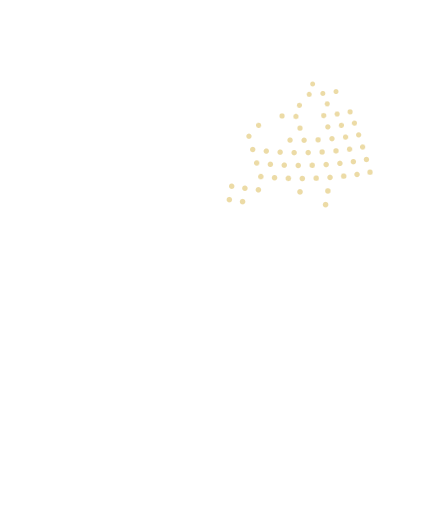
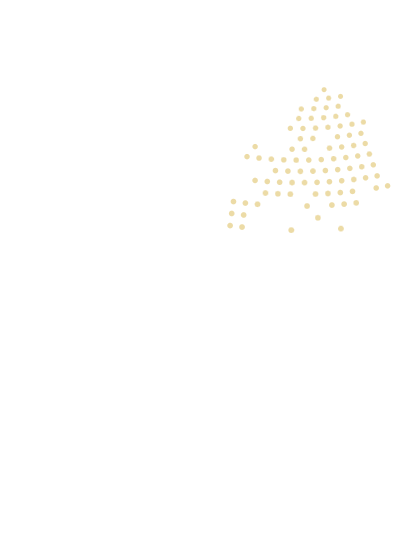
Early-Access-Mail: Kopf wie Website (echte Erde, Label, Verlaufstitel), grösserer Globus, kürzere Texte, Symbole in Hellgold

diff --git a/email/early-access.html b/email/early-access.html
@@ -7,10 +7,11 @@
 <meta name="supported-color-schemes" content="dark">
 <title>Capitalife – Early Access</title>
 <!--
-  Early-Access-Mail für die Warteliste, im dunklen Stil der Website (Schrift Inter, Gold als Akzent).
+  Early-Access-Mail für die Warteliste, im dunklen Stil der Website (Schrift Inter, Hellgold als Akzent).
   Versand über IONOS Webmail: Datei im Browser öffnen, Strg+A, Strg+C, in "Neue E-Mail" einfügen.
   Empfänger immer in BCC. Bilder liegen auf der Website (public/email/).
-  Text rechtlich geprüft (Agent, 16.10.2026), keine Rechtsberatung.
+  Text rechtlich geprüft (Agenten, 16.10.2026): keine Kapitalabfrage (nur später durch das regulierte Institut).
+  Keine Rechtsberatung.
 -->
 <link href="https://fonts.googleapis.com/css2?family=Inter:wght@300;400;500;600&display=swap" rel="stylesheet">
 </head>
@@ -22,22 +23,22 @@
 
   <!-- Kopf -->
   <tr><td style="padding:0;border-radius:18px 18px 0 0;">
-    <img src="https://capitalife-website.vercel.app/email/header.png" width="600" height="270" alt="Capitalife – Private Early Access – Einladung zur unverbindlichen Vormerkung" style="display:block;width:600px;height:270px;border:0;border-radius:18px 18px 0 0;">
+    <img src="https://capitalife-website.vercel.app/email/header.png" width="600" height="300" alt="Capitalife – Private Early Access – Einladung zur unverbindlichen Vormerkung" style="display:block;width:600px;height:300px;border:0;border-radius:18px 18px 0 0;">
   </td></tr>
 
   <!-- 1 Eintragung -->
-  <tr><td style="padding:8px 24px 0;">
+  <tr><td style="padding:10px 24px 0;">
     <table role="presentation" width="552" cellpadding="0" cellspacing="0" border="0" bgcolor="#0a0a0a" style="width:552px;background:#0a0a0a;border:1px solid #1c1c1c;border-radius:16px;">
       <tr>
-        <td valign="top" style="padding:32px 0 32px 30px;">
-          <img src="https://capitalife-website.vercel.app/email/icon-mail-dark.png" width="28" height="28" alt="" style="display:block;border:0;">
+        <td valign="middle" style="padding:34px 8px 34px 30px;">
+          <img src="https://capitalife-website.vercel.app/email/icon-mail-gold.png" width="28" height="28" alt="" style="display:block;border:0;">
           <p style="margin:16px 0 0;font-size:20px;line-height:1.3;color:#ffffff;font-weight:400;letter-spacing:-0.2px;">Danke für Ihre Eintragung</p>
-          <p style="margin:14px 0 0;font-size:14px;line-height:1.65;color:#a8a8a8;font-weight:300;">Capitalife bereitet derzeit ein Angebot vor, bei dem die Vermögensverwaltung durch ein BaFin-beaufsichtigtes Wertpapierinstitut auf individuell geführten Kundendepots erbracht werden soll. Capitalife selbst verfügt über keine Erlaubnis der BaFin und erbringt keine Finanzdienstleistungen.</p>
-          <p style="margin:12px 0 0;font-size:14px;line-height:1.65;color:#a8a8a8;font-weight:300;">Wenn Sie möchten, können Sie uns Ihr unverbindliches Interesse mitteilen und werden bei den weiteren Schritten frühzeitig informiert.</p>
+          <p style="margin:12px 0 0;font-size:14px;line-height:1.65;color:#a8a8a8;font-weight:300;">Capitalife bereitet ein Angebot vor: Vermögensverwaltung durch ein BaFin-beaufsichtigtes Wertpapierinstitut, auf Ihrem eigenen Depot.</p>
+          <p style="margin:10px 0 0;font-size:12.5px;line-height:1.6;color:#7a7a7a;font-weight:300;">Capitalife selbst hat keine BaFin-Erlaubnis und erbringt keine Finanzdienstleistungen.</p>
           <p style="margin:16px 0 0;font-size:12.5px;line-height:1.5;color:#e2ca7a;font-weight:500;">Unverbindlich · Keine Kapitalzusage · Keine Einzahlung</p>
         </td>
-        <td valign="top" align="right" width="150" style="width:150px;padding:20px 0 0 0;">
-          <img src="https://capitalife-website.vercel.app/email/globe-dark.png" width="150" height="177" alt="" style="display:block;width:150px;height:177px;border:0;">
+        <td valign="middle" align="right" width="200" style="width:200px;padding:0;">
+          <img src="https://capitalife-website.vercel.app/email/globe-dark.png" width="200" height="280" alt="" style="display:block;width:200px;height:280px;border:0;border-radius:0 16px 16px 0;">
         </td>
       </tr>
     </table>
@@ -47,10 +48,9 @@
   <tr><td style="padding:14px 24px 0;">
     <table role="presentation" width="552" cellpadding="0" cellspacing="0" border="0" bgcolor="#0a0a0a" style="width:552px;background:#0a0a0a;border:1px solid #1c1c1c;border-radius:16px;">
       <tr><td style="padding:32px 30px;">
-        <img src="https://capitalife-website.vercel.app/email/icon-info.png" width="28" height="28" alt="" style="display:block;border:0;">
-        <p style="margin:16px 0 0;font-size:20px;line-height:1.3;color:#ffffff;font-weight:400;letter-spacing:-0.2px;">Was Early Access für Sie bedeutet</p>
-        <p style="margin:14px 0 0;font-size:14px;line-height:1.65;color:#a8a8a8;font-weight:300;">Sie werden frühzeitig über den geplanten Start, die finale Ausgestaltung und die nächsten Schritte informiert.</p>
-        <p style="margin:12px 0 0;font-size:14px;line-height:1.65;color:#a8a8a8;font-weight:300;">Sobald die regulatorische und technische Umsetzung abgeschlossen ist, melden wir uns bei Ihnen.</p>
+        <img src="https://capitalife-website.vercel.app/email/icon-info-gold.png" width="28" height="28" alt="" style="display:block;border:0;">
+        <p style="margin:16px 0 0;font-size:20px;line-height:1.3;color:#ffffff;font-weight:400;letter-spacing:-0.2px;">Was Early Access bedeutet</p>
+        <p style="margin:12px 0 0;font-size:14px;line-height:1.65;color:#a8a8a8;font-weight:300;">Sie erfahren früh vom Start und den nächsten Schritten. Sobald alles regulatorisch und technisch steht, melden wir uns.</p>
         <p style="margin:16px 0 0;font-size:12.5px;line-height:1.5;color:#e2ca7a;font-weight:500;">Früh informiert · Vollständig unverbindlich</p>
       </td></tr>
     </table>
@@ -61,32 +61,29 @@
     <table role="presentation" width="552" cellpadding="0" cellspacing="0" border="0" bgcolor="#0a0a0a" style="width:552px;background:#0a0a0a;border:1px solid #1c1c1c;border-radius:16px;">
       <tr><td style="padding:32px 30px;">
         <img src="https://capitalife-website.vercel.app/email/icon-check-dark.png" width="28" height="28" alt="" style="display:block;border:0;">
-        <p style="margin:16px 0 0;font-size:20px;line-height:1.3;color:#ffffff;font-weight:400;letter-spacing:-0.2px;">So bestätigen Sie Ihr Interesse <span style="color:#7a7a7a;font-size:15px;">(freiwillig)</span></p>
-        <p style="margin:14px 0 0;font-size:14px;line-height:1.65;color:#a8a8a8;font-weight:300;">Antworten Sie einfach direkt auf diese E-Mail.</p>
-        <p style="margin:20px 0 0;font-size:13px;line-height:1.5;color:#ffffff;font-weight:500;">Bitte nennen Sie</p>
-        <p style="margin:8px 0 0;font-size:14px;line-height:1.75;color:#a8a8a8;font-weight:300;">Name<br>Telefonnummer <span style="color:#6f6f6f;">(optional, nur wenn Sie einen Anruf wünschen)</span></p>
-        <p style="margin:20px 0 0;font-size:13px;line-height:1.5;color:#ffffff;font-weight:500;">Antwortformulierung</p>
-        <table role="presentation" width="100%" cellpadding="0" cellspacing="0" border="0" style="margin-top:10px;">
-          <tr><td style="border-left:2px solid #e2ca7a;padding:4px 0 4px 16px;font-size:14px;line-height:1.65;color:#d6d6d6;font-weight:300;">„Ich bestätige mein unverbindliches Interesse am geplanten Capitalife Early Access und bin einverstanden, hierzu von der Capitalife GbR per E-Mail und, falls ich eine Telefonnummer angebe, telefonisch kontaktiert zu werden.“</td></tr>
+        <p style="margin:16px 0 0;font-size:20px;line-height:1.3;color:#ffffff;font-weight:400;letter-spacing:-0.2px;">Interesse bestätigen <span style="color:#6f6f6f;font-size:15px;">(freiwillig)</span></p>
+        <p style="margin:12px 0 0;font-size:14px;line-height:1.65;color:#a8a8a8;font-weight:300;">Antworten Sie auf diese E-Mail mit Ihrem Namen und, wenn Sie einen Anruf wünschen, Ihrer Telefonnummer.</p>
+        <table role="presentation" width="100%" cellpadding="0" cellspacing="0" border="0" style="margin-top:16px;">
+          <tr><td style="border-left:2px solid #e2ca7a;padding:4px 0 4px 16px;font-size:14px;line-height:1.65;color:#d6d6d6;font-weight:300;">„Ich bestätige mein unverbindliches Interesse am Capitalife Early Access und bin einverstanden, von der Capitalife GbR per E-Mail und, falls angegeben, telefonisch kontaktiert zu werden.“</td></tr>
         </table>
-        <p style="margin:20px 0 0;font-size:12.5px;line-height:1.6;color:#e2ca7a;font-weight:500;">Keine Einzahlung · Kein Vertrag · Keine verbindliche Zusage · Kein Anspruch auf Teilnahme</p>
+        <p style="margin:14px 0 0;font-size:12.5px;line-height:1.6;color:#7a7a7a;font-weight:300;">Bitte keine Angaben zu Vermögen oder Anlagebeträgen. Solche Angaben erfragt später nur das zuständige, BaFin-beaufsichtigte Institut.</p>
+        <p style="margin:16px 0 0;font-size:12.5px;line-height:1.6;color:#e2ca7a;font-weight:500;">Keine Einzahlung · Kein Vertrag · Kein Anspruch auf Teilnahme</p>
       </td></tr>
     </table>
   </td></tr>
 
   <!-- Fuss -->
-  <tr><td style="padding:36px 54px 44px;">
-    <p style="margin:0;font-size:13px;line-height:1.65;color:#a8a8a8;font-weight:300;">Vielen Dank für Ihr Interesse an Capitalife. Nach Eingang Ihrer Antwort nehmen wir Ihre Angaben in unsere Early-Access-Liste auf und melden uns zu einem späteren Zeitpunkt.</p>
-    <p style="margin:18px 0 0;font-size:13px;line-height:1.65;color:#ffffff;font-weight:400;">Capitalife GbR<br><span style="color:#8a8a8a;font-weight:300;">Jeroen Göhlert · Jan Luca Manfré<br>Am Königsweg 3A, 48599 Gronau-Epe</span><br><a href="mailto:info@capitalife-invest.de" style="color:#e2ca7a;text-decoration:none;">info@capitalife-invest.de</a></p>
-    <p style="margin:18px 0 0;font-size:12px;line-height:1.6;color:#8a8a8a;">Keine weiteren E-Mails? Antworten Sie mit „Abmelden“.</p>
+  <tr><td style="padding:34px 54px 44px;">
+    <p style="margin:0;font-size:13px;line-height:1.65;color:#ffffff;font-weight:400;">Capitalife GbR<br><span style="color:#8a8a8a;font-weight:300;">Jeroen Göhlert · Jan Luca Manfré<br>Am Königsweg 3A, 48599 Gronau-Epe</span><br><a href="mailto:info@capitalife-invest.de" style="color:#e2ca7a;text-decoration:none;">info@capitalife-invest.de</a></p>
+    <p style="margin:16px 0 0;font-size:12px;line-height:1.6;color:#8a8a8a;">Keine weiteren E-Mails? Antworten Sie mit „Abmelden“.</p>
 
-    <table role="presentation" width="100%" cellpadding="0" cellspacing="0" border="0" style="margin-top:28px;"><tr><td style="border-top:1px solid #1c1c1c;font-size:0;line-height:0;">&nbsp;</td></tr></table>
+    <table role="presentation" width="100%" cellpadding="0" cellspacing="0" border="0" style="margin-top:26px;"><tr><td style="border-top:1px solid #1c1c1c;font-size:0;line-height:0;">&nbsp;</td></tr></table>
 
     <p style="margin:22px 0 0;font-size:11px;line-height:1.6;color:#7a7a7a;font-weight:500;">Rechtlicher Hinweis</p>
-    <p style="margin:6px 0 0;font-size:11px;line-height:1.65;color:#5f5f5f;">Diese Nachricht ist für den adressierten Empfänger bestimmt. Sie dient allein der unverbindlichen Erfassung eines allgemeinen Interesses an einer späteren Kontaktaufnahme. Sie ist weder ein Angebot noch eine Aufforderung zum Erwerb oder zur Veräußerung von Finanzinstrumenten. Sie ist auch keine Anlageberatung, Anlagevermittlung oder Finanzportfolioverwaltung. Capitalife verfügt über keine Erlaubnis der BaFin nach KWG oder WpIG. Mit Ihrer Antwort entstehen kein Vertrag, keine Investitions- oder Kapitalzusage, keine Reservierung und kein Anspruch auf Teilnahme. Capitalife nimmt keine Gelder entgegen, eröffnet keine Depots und führt keine Orders aus. Eine mögliche spätere Teilnahme setzt die vollständige regulatorische und vertragliche Ausgestaltung, die Prüfung durch ein reguliertes Wertpapierinstitut und gesonderte Vertragsunterlagen mit diesem Institut voraus.</p>
+    <p style="margin:6px 0 0;font-size:11px;line-height:1.65;color:#5f5f5f;">Diese Nachricht dient nur der unverbindlichen Erfassung Ihres Interesses an einer späteren Kontaktaufnahme. Sie ist kein Angebot, keine Aufforderung zum Erwerb oder zur Veräußerung von Finanzinstrumenten und keine Anlageberatung, Anlagevermittlung oder Finanzportfolioverwaltung. Capitalife verfügt über keine Erlaubnis der BaFin nach KWG oder WpIG, nimmt keine Gelder entgegen, eröffnet keine Depots und führt keine Orders aus. Mit Ihrer Antwort entstehen kein Vertrag, keine Kapitalzusage und kein Anspruch auf Teilnahme. Eine spätere Teilnahme setzt die vollständige regulatorische Ausgestaltung, die Prüfung durch ein reguliertes Wertpapierinstitut und gesonderte Verträge mit diesem Institut voraus.</p>
 
     <p style="margin:18px 0 0;font-size:11px;line-height:1.6;color:#7a7a7a;font-weight:500;">Datenschutz</p>
-    <p style="margin:6px 0 0;font-size:11px;line-height:1.65;color:#5f5f5f;">Verantwortlich ist die Capitalife GbR, vertreten durch die Gesellschafter Jeroen Göhlert und Jan Luca Manfré, Am Königsweg 3A, 48599 Gronau-Epe, info@capitalife-invest.de. Wir verarbeiten Ihre Angaben (Name, E-Mail, optional Telefonnummer) nur, um Ihre Interessenbekundung zu bearbeiten und Sie zu kontaktieren. Rechtsgrundlage ist Ihre Einwilligung (Art. 6 Abs. 1 lit. a DSGVO). Die Angabe ist freiwillig. Sie können die Einwilligung jederzeit mit Wirkung für die Zukunft per E-Mail widerrufen. Unser E-Mail-Anbieter IONOS verarbeitet die Daten in unserem Auftrag. Wir löschen die Daten nach Widerruf, spätestens 12 Monate nach dem Start oder sobald feststeht, dass er nicht stattfindet. Sie haben das Recht auf Auskunft, Berichtigung, Löschung, Einschränkung der Verarbeitung und Datenübertragbarkeit sowie auf Beschwerde bei einer Datenschutz-Aufsichtsbehörde. Eine automatisierte Entscheidungsfindung findet nicht statt. Mehr in unserer <a href="https://capitalife-website.vercel.app/privacy" style="color:#8a8a8a;">Datenschutzerklärung</a>.</p>
+    <p style="margin:6px 0 0;font-size:11px;line-height:1.65;color:#5f5f5f;">Verantwortlich: Capitalife GbR, vertreten durch Jeroen Göhlert und Jan Luca Manfré, Am Königsweg 3A, 48599 Gronau-Epe, info@capitalife-invest.de. Wir verarbeiten Ihre Angaben (Name, E-Mail, optional Telefonnummer) nur, um Ihr Interesse zu bearbeiten und Sie zu kontaktieren, auf Grundlage Ihrer Einwilligung (Art. 6 Abs. 1 lit. a DSGVO). Die Angabe ist freiwillig, ein Widerruf ist jederzeit per E-Mail möglich. Unser E-Mail-Anbieter IONOS verarbeitet die Daten in unserem Auftrag. Wir löschen sie nach Widerruf, spätestens 12 Monate nach dem Start oder sobald feststeht, dass er nicht stattfindet. Sie haben das Recht auf Auskunft, Berichtigung, Löschung, Einschränkung, Datenübertragbarkeit und Beschwerde bei einer Aufsichtsbehörde. Keine automatisierte Entscheidungsfindung. Mehr in unserer <a href="https://capitalife-website.vercel.app/privacy" style="color:#8a8a8a;">Datenschutzerklärung</a>.</p>
   </td></tr>
 
 </table>
